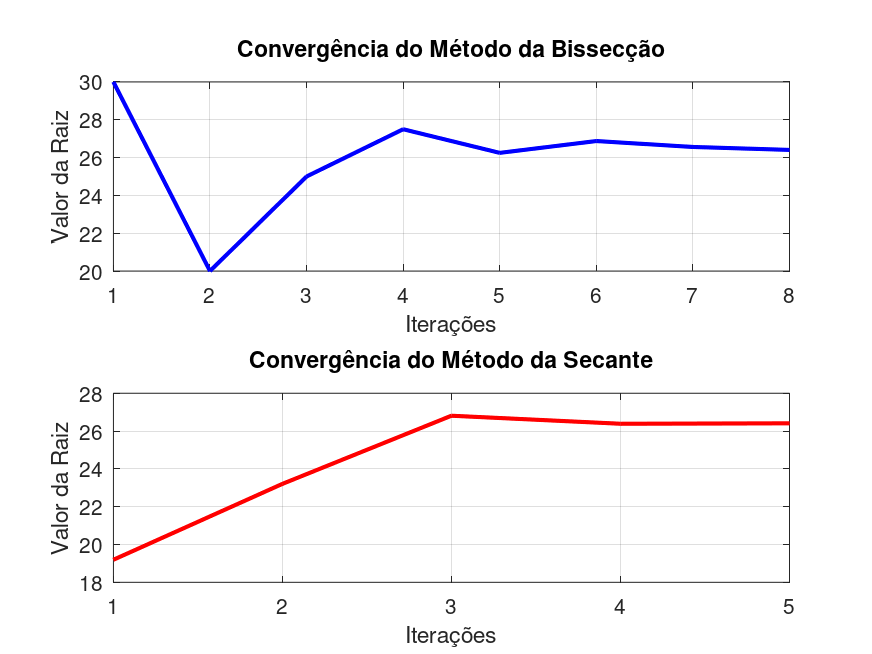
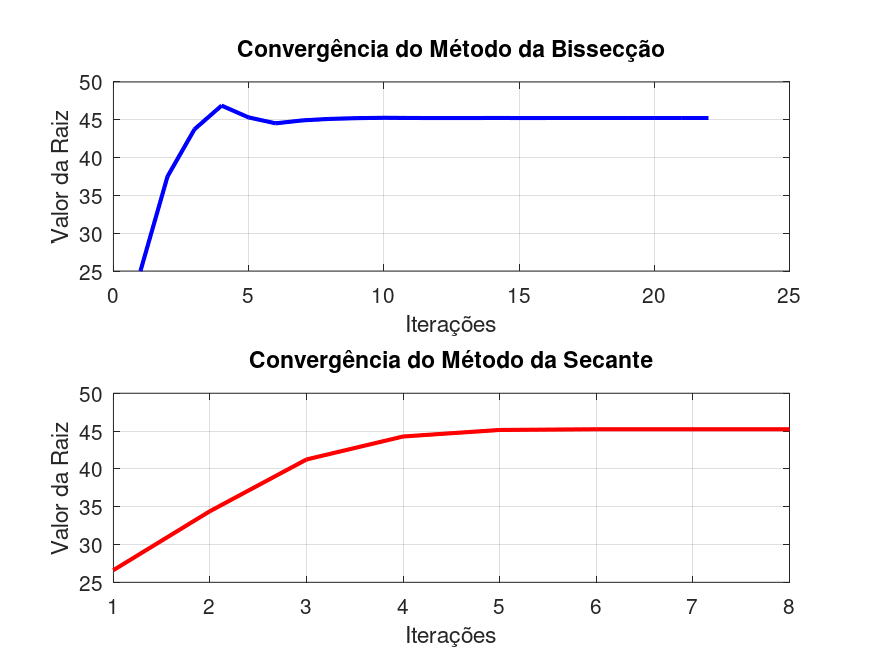
Finalizado

diff --git a/Lista 5 - Alex e Bruno/P1/lista5Questao2.m b/Lista 5 - Alex e Bruno/P1/lista5Questao2.m
@@ -1,0 +1,174 @@
+function lista5Questao2()
+    % Definindo constantes
+    Pu_max = 80000; % População máxima urbana
+    ku = 0.05; % Taxa de declínio da população urbana
+    Ps_max = 320000; % População máxima suburbana
+    P0 = 10000; % População inicial suburbana
+    ks = 0.09; % Taxa de crescimento suburbano
+
+    % Definindo o limite superior e inferior para a busca
+    a = 0; % Tempo inicial
+    b = 50; % Tempo final (em anos)
+
+    % Define a tolerância para o erro absoluto
+    Es = 5e-5; % Tolerância em porcentagem
+
+    % Executar o método da bissecção
+    fprintf("Método da Bissecção:\n");
+    [rootBisseccao, itBisseccao, valoresBisseccao] = metodoBisseccao(Pu_max, Ps_max, P0, ku, ks, a, b, Es);
+
+    % Verifica se o método da bissecção retornou valores válidos
+    if isempty(rootBisseccao) || isempty(itBisseccao)
+        disp("Erro no método da bissecção.");
+        return;
+    end
+
+    % Executar o método da secante
+    fprintf("\nMétodo da Secante:\n");
+    [rootSecante, itSecante, valoresSecante] = metodoSecante(Pu_max, Ps_max, P0, ku, ks, Es);
+
+    % Verifica se o método da secante retornou valores válidos
+    if isempty(rootSecante) || isempty(itSecante)
+        disp("Erro no método da secante.");
+        return;
+    end
+
+    % Criar tabela comparativa
+    criar_tabela(itBisseccao, rootBisseccao, itSecante, rootSecante);
+
+    % Criar gráficos de convergência
+    criar_graficos(itBisseccao, valoresBisseccao, itSecante, valoresSecante);
+endfunction
+
+function [r, it, valores] = metodoBisseccao(Pu_max, Ps_max, P0, ku, ks, a, b, Es)
+    Ea = Inf; % Erro absoluto inicial
+    r = [];  % Inicializa como vazio para evitar erros
+    it = 0;   % Contador de iterações
+    n = 30;   % Número máximo de iterações
+    valores = []; % Armazena os valores de r
+
+    if (funcao(Pu_max, Ps_max, P0, ku, ks, a) * funcao(Pu_max, Ps_max, P0, ku, ks, b) > 0)
+        disp("Erro: não há mudança de sinal!");
+        return;
+    end
+
+    while (it < n)
+        rPrevio = r;
+        r = (a + b) / 2; % Cálculo do ponto médio
+        valores = [valores; r]; % Armazena o valor atual
+
+        if it > 0
+            Ea = calcularErroEstimativa(r, rPrevio);
+        end
+
+        fprintf('Iteração %d: a = %f, b = %f, r = %f, f(r) = %f, Aproximado = %f\n', ...
+                it + 1, a, b, r, funcao(Pu_max, Ps_max, P0, ku, ks, r), Ea);
+
+        if (Ea <= Es)
+            fprintf("Raiz encontrada: %f\n", r);
+            break;
+        end
+
+        it = it + 1;
+
+        if (funcao(Pu_max, Ps_max, P0, ku, ks, a) * funcao(Pu_max, Ps_max, P0, ku, ks, r) < 0)
+            b = r; % Atualiza o limite superior
+        else
+            a = r; % Atualiza o limite inferior
+        end
+    endwhile
+
+    if it >= n
+        fprintf("Método falhou em %d iterações\n", it);
+    end
+
+    if isempty(r)
+        r = NaN; % Atribuir NaN para indicar que não foi encontrada raiz
+    end
+endfunction
+
+function [r, it, valores] = metodoSecante(Pu_max, Ps_max, P0, ku, ks, Es)
+    Ea = Inf;  % Erro absoluto inicial
+    it = 0;    % Contador de iterações
+    N = 20; % Número máximo de iterações
+    xPrevio = 10; % Valor inicial de t
+    x = 10.1; % Um valor ligeiramente diferente para x
+    valores = []; % Armazena os valores de xr
+
+    f = @(t) funcao(Pu_max, Ps_max, P0, ku, ks, t);
+
+    while (it < N)
+        xProx = (xPrevio * f(x) - x * f(xPrevio)) / (f(x) - f(xPrevio)); % Cálculo do próximo valor
+        valores = [valores; xProx]; % Armazena o valor atual
+
+        % Mensagem de depuração para ver os valores
+        fprintf('Iteração %d: xr = %f, f(x) = %f, Ea = %f\n', it + 1, xProx, f(xProx), Ea);
+
+        Ea = calcularErroEstimativa(xProx, x); % Cálculo do erro absoluto
+
+        if (Ea < Es)
+            fprintf("Iterações %d: Raiz encontrada: %f\n", it + 1, xProx);
+            r = xProx; % Atribui r como a raiz encontrada
+            return; % Encerra a função se a raiz for encontrada
+        end
+
+        % Atualiza os valores para a próxima iteração
+        xPrevio = x;
+        x = xProx;
+        it = it + 1; % Incrementa o contador de iterações
+    endwhile
+
+    fprintf("Método falhou em %d iterações\n", it);
+
+    if it >= N
+        r = NaN; % Atribuir NaN para indicar que não foi encontrada raiz
+    end
+endfunction
+
+function f = funcao(Pu_max, Ps_max, P0, ku, ks, t)
+    Pu = Pu_max * exp(-ku * t); % Cálculo da população urbana
+    Ps = Ps_max * (P0 / (Ps_max + ((Ps_max / P0) - 1) * exp(-ks * t))); % Cálculo da população suburbana
+    f = Ps - 1.2 * Pu; % Retorna a diferença entre a população suburbana e 20% da urbana
+endfunction
+
+function Ea = calcularErroEstimativa(resultadoAtual, resultadoPrev)
+    if resultadoPrev == Inf
+        Ea = Inf; % Se o valor anterior for infinito, o erro é infinito
+    else
+        Ea = abs((resultadoAtual - resultadoPrev) / resultadoAtual) * 100; % Calcula o erro percentual
+    end
+endfunction
+
+function criar_tabela(itBisseccao, rootBisseccao, itSecante, rootSecante)
+    fprintf("\nTabela Comparativa:\n");
+    fprintf("%-20s %-20s %-20s\n", "Método", "Número de Iterações", "Resultado Final");
+    fprintf("%-20s %-20d %-20f\n", "Bissecção", itBisseccao, rootBisseccao);
+    fprintf("%-20s %-20d %-20f\n", "Secante", itSecante, rootSecante);
+endfunction
+
+function criar_graficos(itBisseccao, valoresBisseccao, itSecante, valoresSecante)
+    figure;
+
+    % Gráfico para Bissecção
+    subplot(2, 1, 1);
+    plot(1:length(valoresBisseccao), valoresBisseccao, 'b-', 'LineWidth', 2);
+    title('Convergência do Método da Bissecção');
+    xlabel('Iterações');
+    ylabel('Valor da Raiz');
+    grid on;
+
+    % Gráfico para Secante
+    subplot(2, 1, 2);
+    plot(1:length(valoresSecante), valoresSecante, 'r-', 'LineWidth', 2);
+    title('Convergência do Método da Secante');
+    xlabel('Iterações');
+    ylabel('Valor da Raiz');
+    grid on;
+
+    % Salvar gráficos
+    saveas(gcf, 'convergencia_metodos_bisseccao_secante.png');
+endfunction
+
+% Chama a função principal
+lista5Questao2();
+

diff --git a/Lista 5 - Alex e Bruno/P1/lista5Questao5.m b/Lista 5 - Alex e Bruno/P1/lista5Questao5.m
@@ -8,20 +8,20 @@ function lista5Questao5()
 
     % Executar o método da Bissecção
     fprintf("Método da Bissecção:\n");
-    [rootBisseccao, itBisseccao, valoresBisseccao] = metodoBissecao(u, mi, q, g, v);
+    [rootBisseccao, itBisseccao, valoresBisseccao] = metodoBisseccao(u, mi, q, g, v);
 
-    % Executar o método da Secante
-    fprintf("\nMétodo da Secante:\n");
-    [rootSecante, itSecante, valoresSecante] = metodoSecante(u, mi, q, g, v);
+    % Executar o método de Newton-Raphson
+    fprintf("\nMétodo de Newton-Raphson:\n");
+    [rootNewtonRaphson, itNewtonRaphson, valoresNewtonRaphson] = metodoNewtonRaphson(u, mi, q, g, v);
 
     % Criar tabela comparativa
-    criar_tabela(itBisseccao, rootBisseccao, itSecante, rootSecante);
+    criar_tabela(itBisseccao, rootBisseccao, itNewtonRaphson, rootNewtonRaphson);
 
     % Criar gráficos de convergência
-    criar_graficos(itBisseccao, valoresBisseccao, itSecante, valoresSecante);
+    criar_graficos(itBisseccao, valoresBisseccao, itNewtonRaphson, valoresNewtonRaphson);
 endfunction
 
-function [r, it, valores] = metodoBissecao(u, mi, q, g, v)
+function [r, it, valores] = metodoBisseccao(u, mi, q, g, v)
     f = @(t) u * log(mi / (mi - q * t)) - g * t - v;
 
     a = 10;
@@ -42,10 +42,10 @@ function [r, it, valores] = metodoBissecao(u, mi, q, g, v)
         it = 1; % Inicializa o contador de iterações
         n = 20; % Define o número máximo de iterações
 
-        % Loop do método da bissecção
+        % Loop do método da Bissecção
         while (it <= n)
             rPrevio = r; % Armazena o valor anterior de r
-            r = (a + b) / 2; % Calcula o ponto médio do intervalo
+            r = (a + b) / 2; % Calcula o ponto médio
             valores = [valores; r]; % Armazena o valor atual
 
             % Exibe os valores da iteração atual
@@ -58,7 +58,7 @@ function [r, it, valores] = metodoBissecao(u, mi, q, g, v)
             fprintf('Iteração %d: a = %f, b = %f, r = %f, f(r) = %f, Aproximado = %f\n', ...
                     it, a, b, r, f(r), Ea);
 
-            % Verifica se o erro é menor ou igual à tolerância ou se atingiu o máximo de iterações
+            % Verifica se o erro é menor ou igual à tolerância
             if (Ea <= Es)
                 fprintf("Raiz encontrada: %f\n", r);
                 return; % Sai do loop
@@ -82,37 +82,31 @@ function [r, it, valores] = metodoBissecao(u, mi, q, g, v)
     end
 endfunction
 
-function [r, it, valores] = metodoSecante(u, mi, q, g, v)
+function [r, it, valores] = metodoNewtonRaphson(u, mi, q, g, v)
     f = @(t) u * log(mi / (mi - q * t)) - g * t - v;
+    df = @(t) (u * q / (mi - q * t)) - g; % Derivada da função
 
-    % Define a tolerância para o erro absoluto
-    Es = 1; % Tolerância em porcentagem
+    x = 50; % Valor inicial para t
+    it = 0; % Inicializa o contador de iterações
+    N = 20; % Define o número máximo de iterações
     Ea = Inf; % Erro absoluto inicial
     valores = []; % Armazena os valores de r
 
-    it = 0; % Inicializa o contador de iterações
-    N = 20; % Define o número máximo de iterações
-    x = 50;
-    xPrevio = 10;
-    xProx = 0;
-
     while (it < N)
-        xProx = (xPrevio * f(x) - x * f(xPrevio)) / (f(x) - f(xPrevio));
+        xProx = x - f(x) / df(x); % Cálculo do próximo valor
         valores = [valores; xProx]; % Armazena o novo valor de r
 
-        fprintf('Iteração %d: xr = %f, f(x) = %f, Ea = %f\n', ...
-                it, x, f(x), Ea);
+        fprintf('Iteração %d: xr = %f, f(x) = %f\n', it + 1, x, f(x));
 
         Ea = calcularErroEstimativa(xProx, x);
 
-        if (Ea < Es)
-            fprintf("Iterações %d: Raiz encontrada: %f\n", it + 1, x);
-            r = x; % A raiz encontrada
-            return;
+        if (Ea < 1) % Define a tolerância de 1%
+            fprintf("Iterações %d: Raiz encontrada: %f\n", it + 1, xProx);
+            r = xProx; % A raiz encontrada
+            return; % Sai do loop
         end
 
-        xPrevio = x;
-        x = xProx;
+        x = xProx; % Atualiza x para a próxima iteração
         it = it + 1; % Incrementa o contador de iterações
     endwhile
 
@@ -130,14 +124,14 @@ function Ea = calcularErroEstimativa(resultadoAtual, resultadoPrev)
     end
 endfunction
 
-function criar_tabela(itBissecao, rootBisseccao, itSecante, rootSecante)
+function criar_tabela(itBisseccao, rootBisseccao, itNewtonRaphson, rootNewtonRaphson)
     fprintf("\nTabela Comparativa:\n");
     fprintf("%-20s %-20s %-20s\n", "Método", "Número de Iterações", "Resultado Final");
-    fprintf("%-20s %-20d %-20f\n", "Bissecção", itBissecao, rootBisseccao);
-    fprintf("%-20s %-20d %-20f\n", "Secante", itSecante, rootSecante);
+    fprintf("%-20s %-20d %-20f\n", "Bissecção", itBisseccao, rootBisseccao);
+    fprintf("%-20s %-20d %-20f\n", "Newton-Raphson", itNewtonRaphson, rootNewtonRaphson);
 endfunction
 
-function criar_graficos(itBisseccao, valoresBisseccao, itSecante, valoresSecante)
+function criar_graficos(itBisseccao, valoresBisseccao, itNewtonRaphson, valoresNewtonRaphson)
     figure;
 
     % Gráfico para Bissecção
@@ -148,16 +142,16 @@ function criar_graficos(itBisseccao, valoresBisseccao, itSecante, valoresSecante
     ylabel('Valor da Raiz');
     grid on;
 
-    % Gráfico para Secante
+    % Gráfico para Newton-Raphson
     subplot(2, 1, 2);
-    plot(1:length(valoresSecante), valoresSecante, 'r-', 'LineWidth', 2);
-    title('Convergência do Método da Secante');
+    plot(1:length(valoresNewtonRaphson), valoresNewtonRaphson, 'r-', 'LineWidth', 2);
+    title('Convergência do Método de Newton-Raphson');
     xlabel('Iterações');
     ylabel('Valor da Raiz');
     grid on;
 
     % Salvar gráficos
-    saveas(gcf, 'convergencia_metodos_bisseccao_secante.png');
+    saveas(gcf, 'convergencia_metodos_bisseccao_newton_raphson.png');
 endfunction
 
 % Chama a função principal

diff --git a/Lista 5 - Alex e Bruno/P1/lista5Questao5NewtonRaphson.m b/Lista 5 - Alex e Bruno/P1/lista5Questao5NewtonRaphson.m
@@ -1,0 +1,55 @@
+function lista5Questao5NewtonRaphson()
+    % Definindo constantes
+    g = 9.81;
+    u = 1800;
+    mi = 160000;
+    q = 2600;
+    v = 750;
+    raio = 0.85;
+
+    % Definindo a função e sua derivada
+    f = @(t) u*log(mi/(mi-q*t)) - g*t - v;
+    df = @(t) (u * q / (mi - q*t)) - g; % Derivada da função
+
+    % Define a tolerância para o erro absoluto e o erro inicial
+    Es = 1; % Tolerância em porcentagem
+    Ea = Inf; % Erro absoluto inicial (grande valor para iniciar o loop)
+
+    it = 0; % Inicializa o contador de iterações
+    N = 20; % Define o número máximo de iterações
+    x = 50; % Valor inicial para t
+
+    for n = 0:(N-1)
+        % Cálculo do próximo valor usando Newton-Raphson
+        xProx = x - f(x) / df(x);
+
+        fprintf('Iteração %d: xr = %f, f(x) = %f, Ea = %f\n', ...
+                n, x, f(x), Ea);
+
+        Ea = calcularErroEstimativa(xProx, x);
+
+        if(Ea < Es)
+            fprintf("Iterações %d: Raiz encontrada: %f\n", ...
+                    n+1, xProx);
+            return; % Encerra a função se a raiz for encontrada
+        end
+
+        % Atualiza x para a próxima iteração
+        x = xProx;
+    endfor
+
+    fprintf("Método falhou em %d iterações\n", N); % Exibe mensagem de falha
+endfunction
+
+% Função para calcular o erro absoluto
+function Ea = calcularErroEstimativa(resultadoAtual, resultadoPrev)
+    if resultadoPrev == Inf
+        Ea = Inf; % Se o valor anterior for infinito, o erro é infinito
+    else
+        Ea = abs((resultadoAtual - resultadoPrev) / resultadoAtual) * 100; % Calcula o erro percentual
+    end
+endfunction
+
+% Chama a função principal
+lista5Questao5NewtonRaphson();
+
